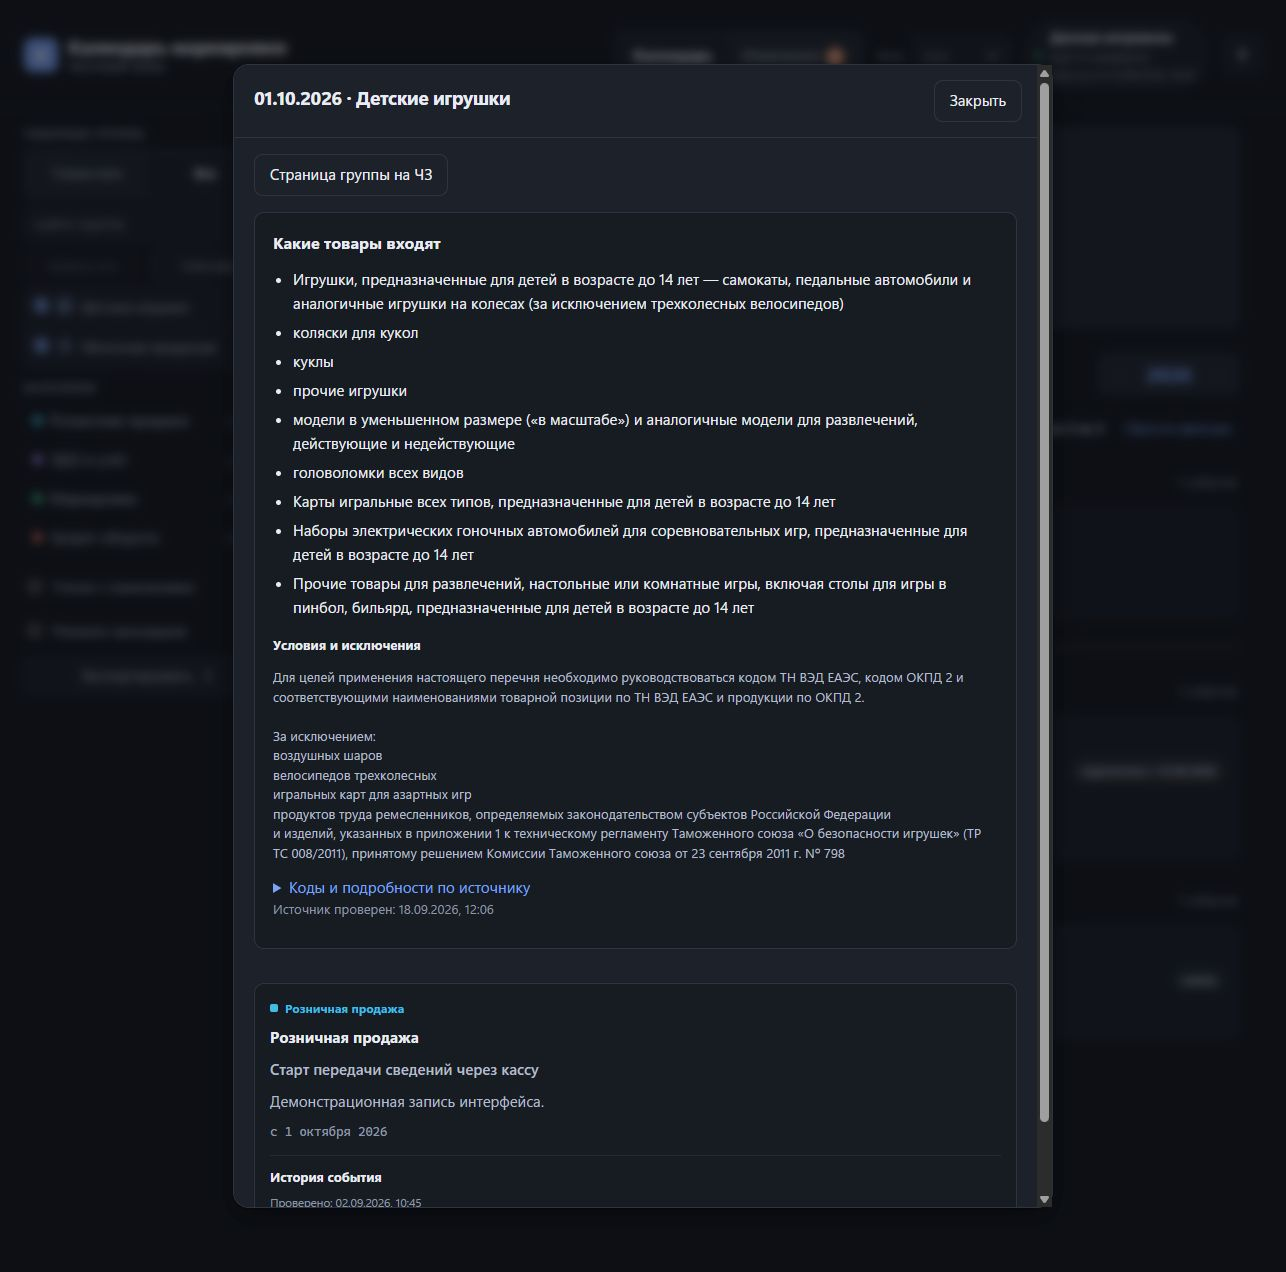
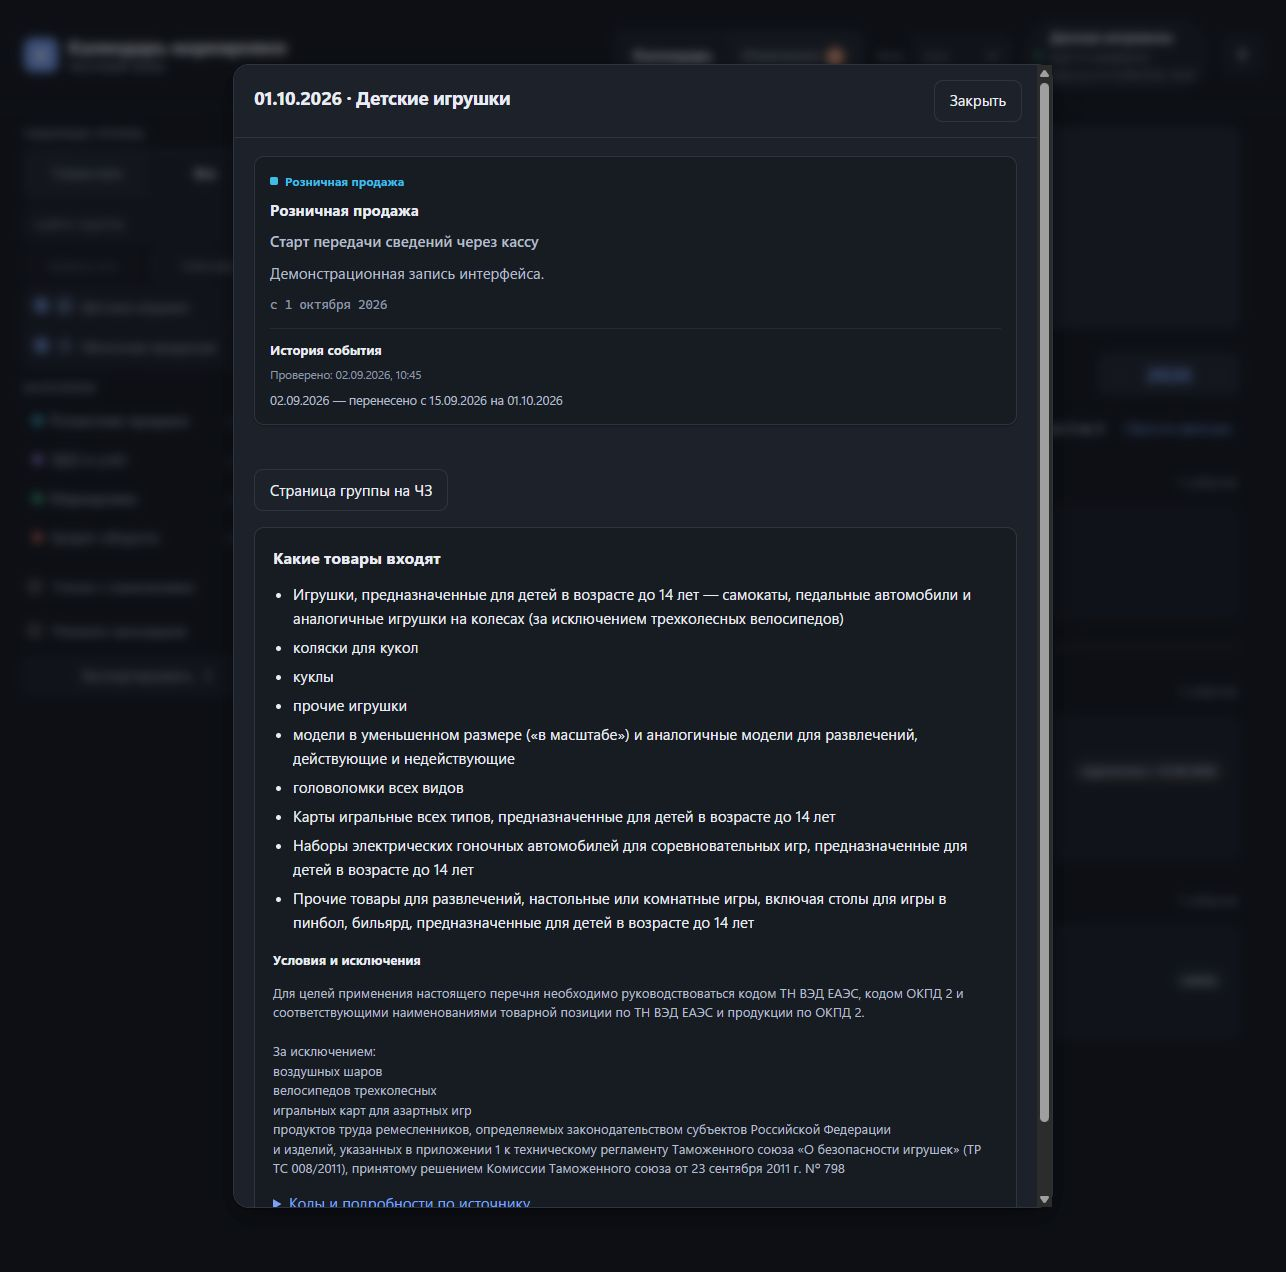
fix: keep events before product information in card

Changed region(s): [[0.1866, 0.1226, 0.7465, 0.9505]]

diff --git a/src/MarkingCalendar.UI/src/render.ts b/src/MarkingCalendar.UI/src/render.ts
@@ -1519,7 +1519,7 @@ class TimelineRenderer implements MountedApp {
       }
       list.append(article);
     }
-    dialog.append(header);
+    dialog.append(header, list);
     const groupActions = document.createElement("div");
     groupActions.className = "drawer-group-actions";
     const groupUrl = productGroup?.groupUrl ?? (catalogGroup ? new URL("../", catalogGroup.sourceUrl).href : null);
@@ -1567,7 +1567,6 @@ class TimelineRenderer implements MountedApp {
       included.append(checked);
       dialog.append(included);
     }
-    dialog.append(list);
     const controller = this.openOverlay(dialog, eventOpener, close, () => { this.state.dialog = null; });
     close.addEventListener("click", controller.requestClose);
   }
